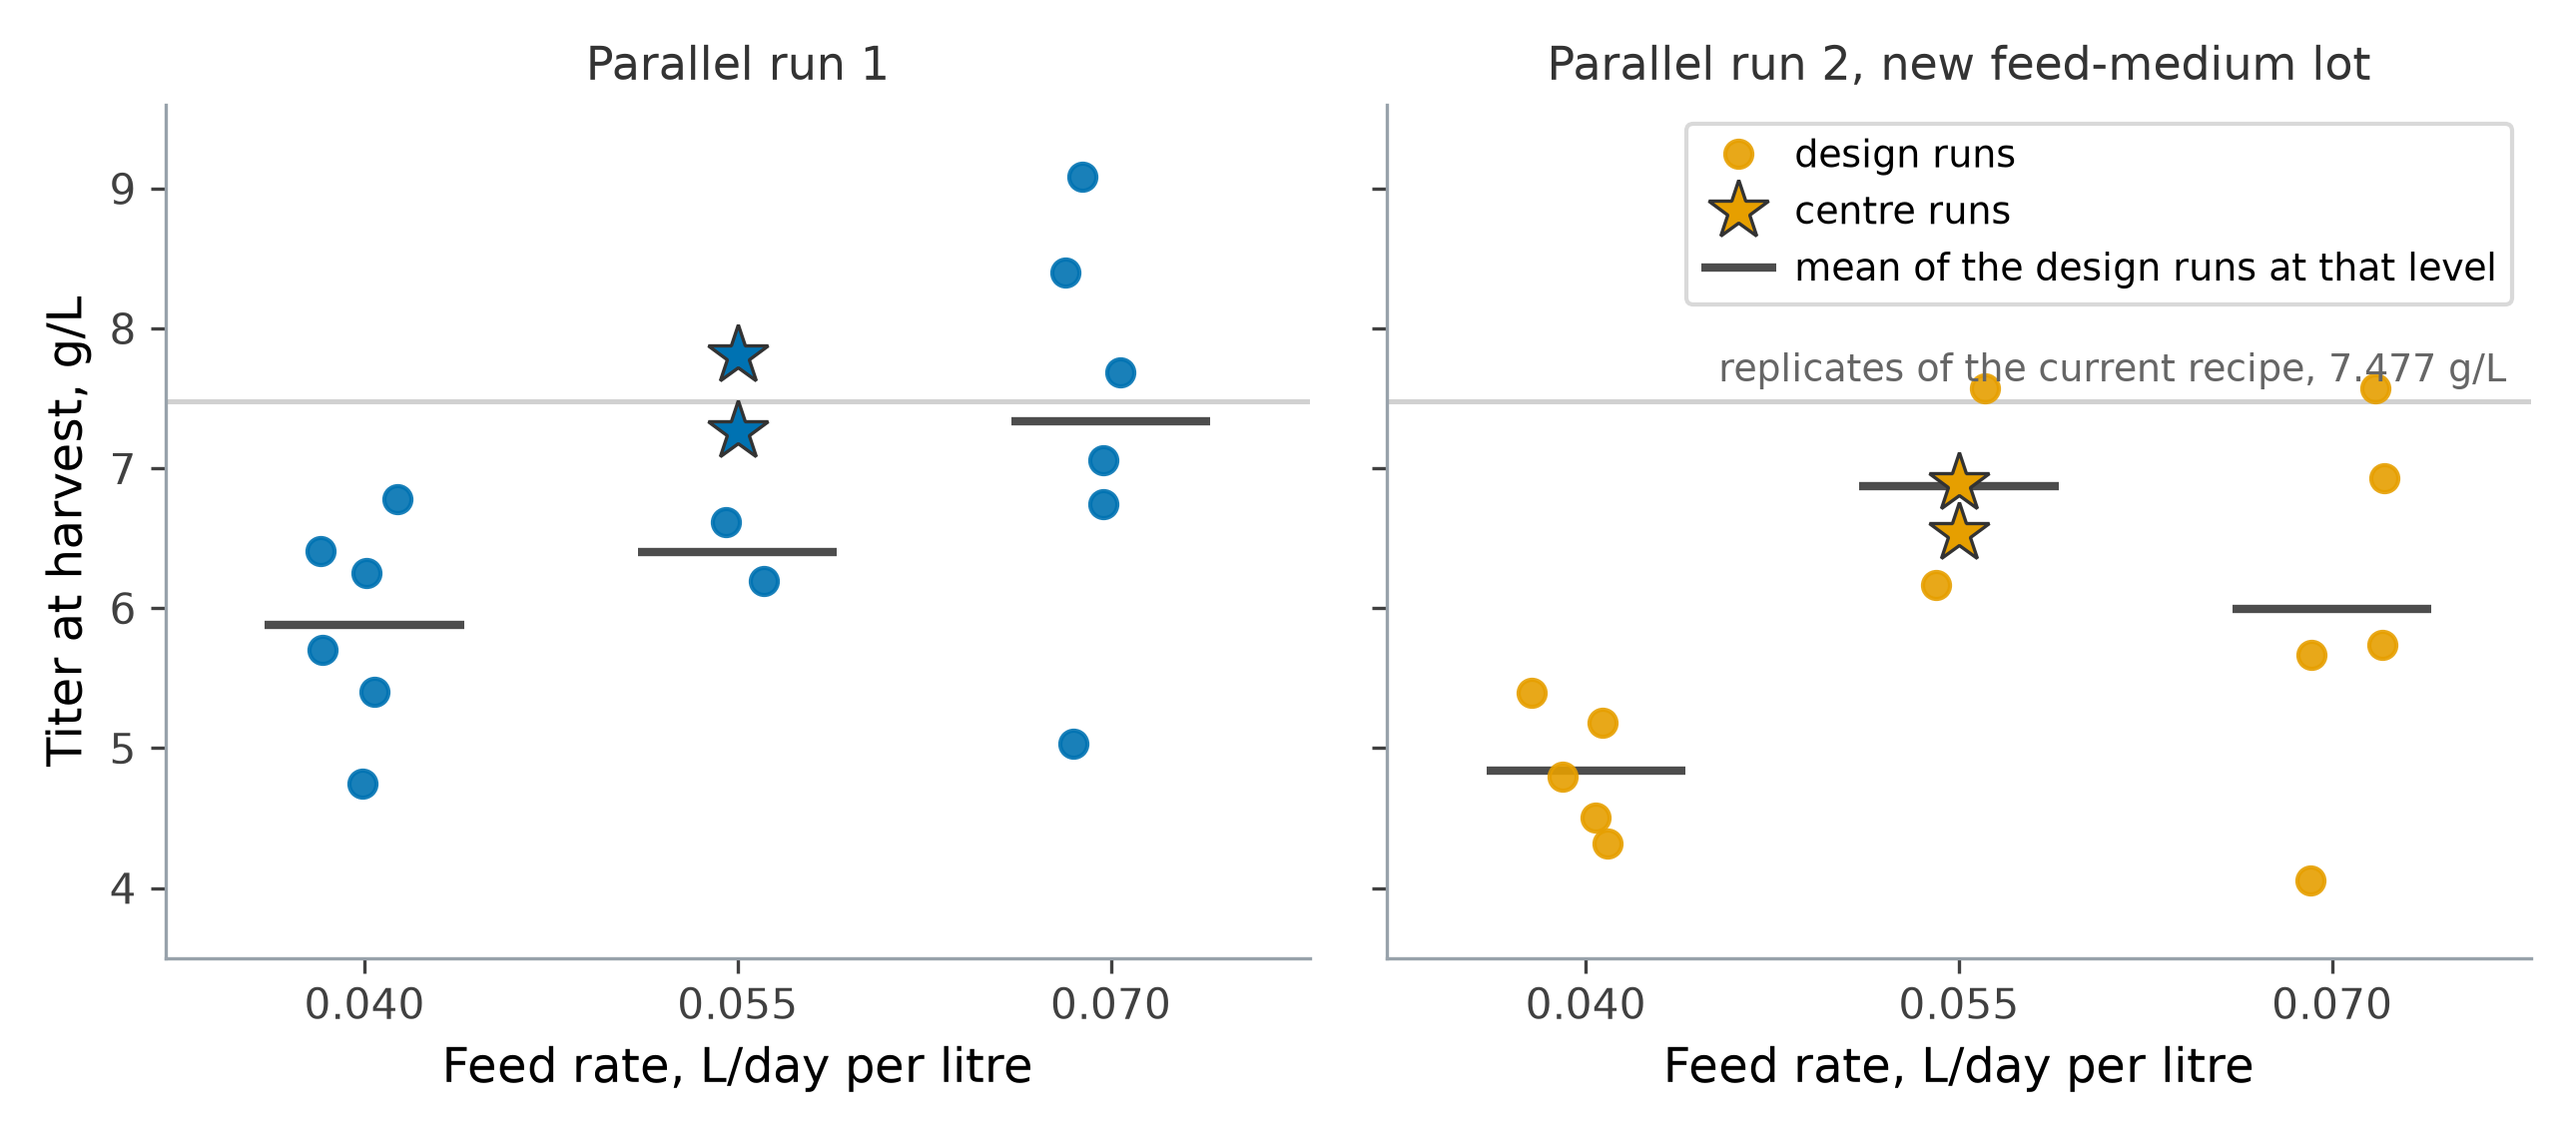
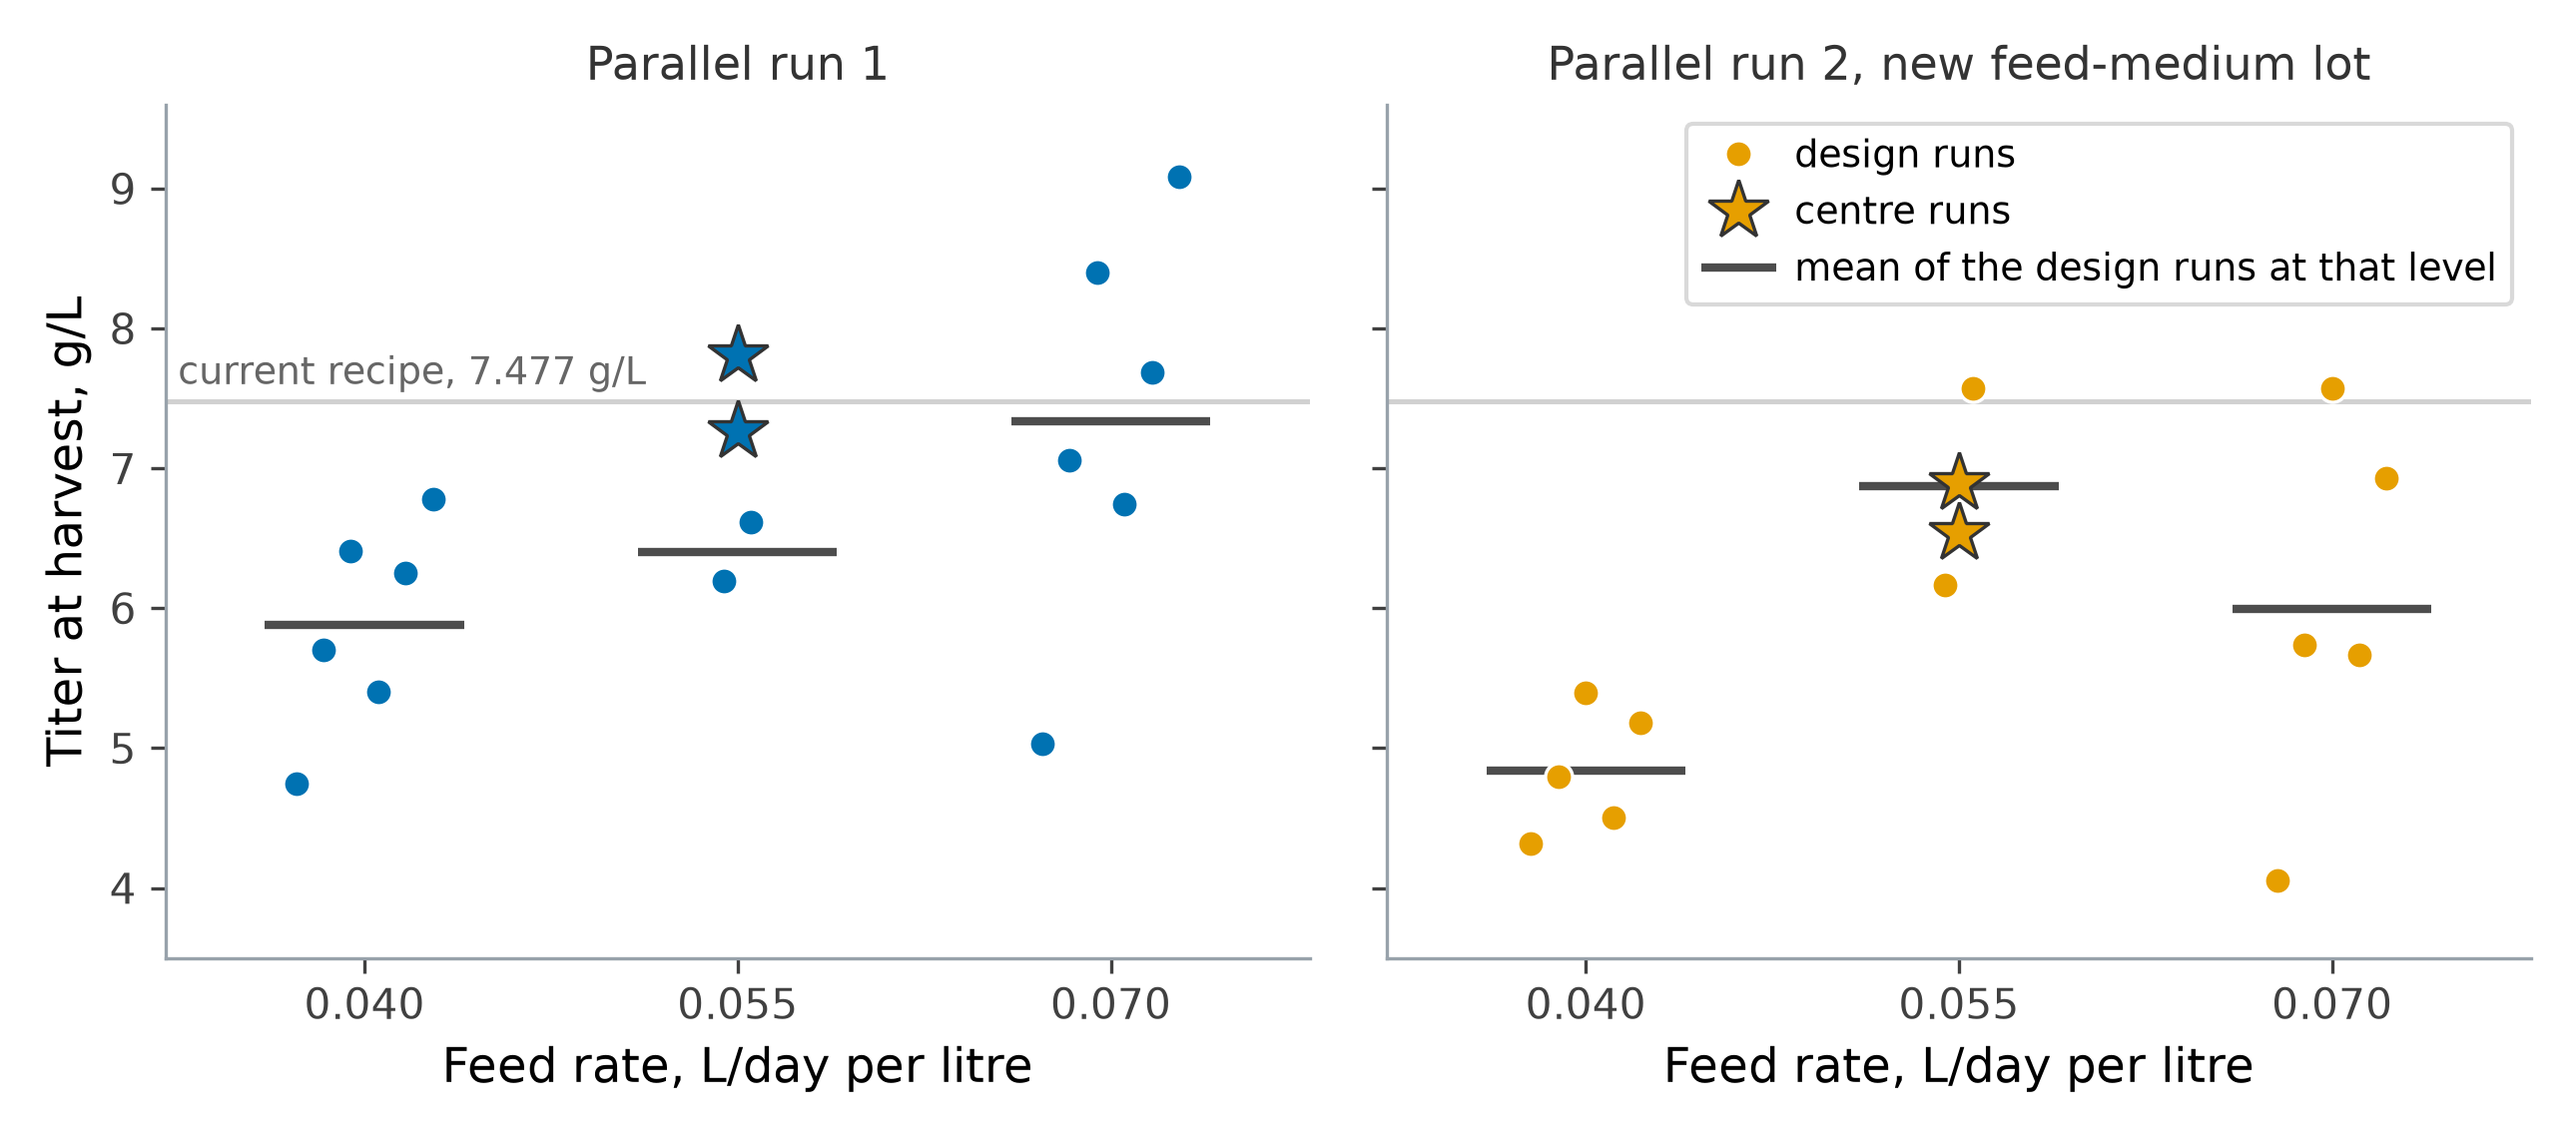
Keep every titer point and the replicate label clear of each other
The replicate label sat on two points in the second plot, and the random
sideways jitter let some circles overlap. Points at a feed level are now
spread evenly, alternating left and right in titer order, with a white edge
so touching circles stay distinct. The label is shortened to "current recipe,
7.477 g/L" and moved to the left plot, above the line, where no point sits.

Claude-Session: https://claude.ai/code/session_01W1daHPaXLs7PPRsq8CmMMm

diff --git a/doe/omars-worked-study-titer.py b/doe/omars-worked-study-titer.py
@@ -22,17 +22,25 @@ feed = FACTORS[3]
 levels = [feed.low, (feed.low + feed.high) / 2, feed.high]
 colour = {1: BLUE, 2: ORANGE}
 titles = {1: "Parallel run 1", 2: "Parallel run 2, new feed-medium lot"}
-JITTER = 0.0022          # spreads runs at the same level sideways so none hides another
-rng = np.random.default_rng(3)
+SPREAD = 0.0011          # sideways step between runs at one level, so none hides another
+
+
+def spread(n):
+    """Evenly spaced sideways offsets for n points at one level, centred on it."""
+    return (np.arange(n) - (n - 1) / 2) * SPREAD
 
 fig, axes = plt.subplots(1, 2, figsize=(8.6, 3.8), sharey=True)
 for ax, c in zip(axes, (1, 2)):
     ax.axhline(reps.mean(), color="0.82", lw=1.2, zorder=1)
     here = plan["parallel_run"] == c
     design, centre = here & ~is_cp, here & is_cp
-    x = plan.loc[design, "feed_rate"] + rng.uniform(-JITTER, JITTER, design.sum())
-    ax.plot(x, plan.loc[design, "titer"], "o", color=colour[c], ms=6.5, zorder=3, alpha=0.9,
-            label="design runs")
+    for lv in levels:
+        at = design & np.isclose(plan["feed_rate"], lv)
+        y = np.sort(plan.loc[at, "titer"].to_numpy())
+        # Alternate left and right in titer order, so neighbours in titer sit apart sideways.
+        x = lv + spread(len(y))[np.argsort(np.r_[np.arange(0, len(y), 2), np.arange(1, len(y), 2)])]
+        ax.plot(x, y, "o", color=colour[c], ms=6.5, mec="white", mew=0.8, zorder=3,
+                label="design runs" if lv == levels[0] else None)
     ax.plot(plan.loc[centre, "feed_rate"], plan.loc[centre, "titer"], "*", color=colour[c], ms=15,
             mec="0.2", mew=0.8, zorder=4, label="centre runs")
     for lv in levels:
@@ -53,8 +61,8 @@ for ax, c in zip(axes, (1, 2)):
 
 axes[0].set_ylim(3.5, 9.6)
 axes[0].set_ylabel("Titer at harvest, g/L", fontsize=11.5)
-axes[1].text(feed.high + 0.007, reps.mean() + 0.08, f"replicates of the current recipe, {reps.mean():.3f} g/L",
-             ha="right", va="bottom", fontsize=9, color=GREY)
+axes[0].text(feed.low - 0.0075, reps.mean() + 0.06, f"current recipe, {reps.mean():.3f} g/L",
+             ha="left", va="bottom", fontsize=9, color=GREY)
 axes[1].legend(loc="upper right", fontsize=9, frameon=True, facecolor="white", edgecolor="0.85",
                framealpha=1.0, handletextpad=0.5)
 
